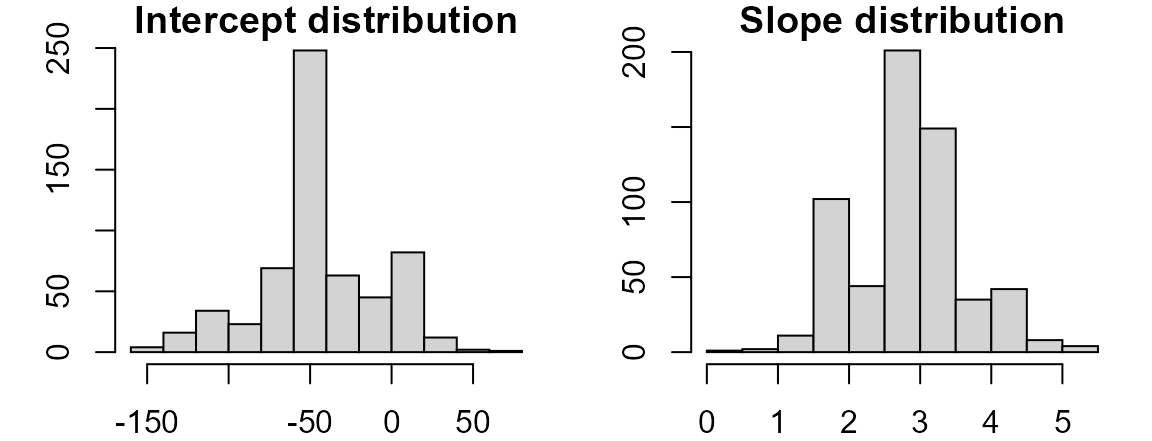
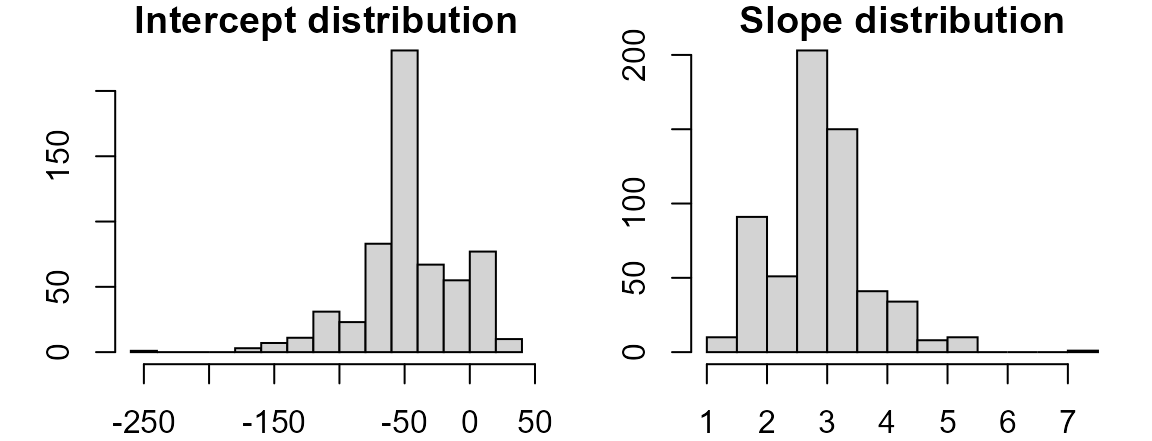
working on docs/ pages

diff --git a/docs/reference/eda_lm.html b/docs/reference/eda_lm.html
@@ -138,10 +138,21 @@
  standard  deviations match axes unit length.</p>
     </div>
 
-    <pre class="usage"><span class='fu'>eda_lm</span><span class='op'>(</span><span class='va'>dat</span>, <span class='va'>x</span>, <span class='va'>y</span>, x.lab <span class='op'>=</span> <span class='cn'>NULL</span>, y.lab <span class='op'>=</span> <span class='cn'>NULL</span>, reg <span class='op'>=</span> <span class='cn'>TRUE</span>,
-  loe <span class='op'>=</span> <span class='cn'>FALSE</span>, lm.col <span class='op'>=</span> <span class='fu'><a href='https://rdrr.io/r/grDevices/rgb.html'>rgb</a></span><span class='op'>(</span><span class='fl'>1</span>, <span class='fl'>0.5</span>, <span class='fl'>0.5</span>, <span class='fl'>0.8</span><span class='op'>)</span>, loe.col <span class='op'>=</span> <span class='fu'><a href='https://rdrr.io/r/grDevices/rgb.html'>rgb</a></span><span class='op'>(</span><span class='fl'>0.73</span>,
-  <span class='fl'>0.73</span>, <span class='fl'>1</span>, <span class='fl'>1</span><span class='op'>)</span>, stats <span class='op'>=</span> <span class='cn'>FALSE</span>, plot.d <span class='op'>=</span> <span class='fu'><a href='https://rdrr.io/r/base/list.html'>list</a></span><span class='op'>(</span>pch <span class='op'>=</span> <span class='fl'>20</span>, col <span class='op'>=</span> <span class='st'>"grey40"</span><span class='op'>)</span>,
-  <span class='va'>...</span>, loess.d <span class='op'>=</span> <span class='cn'>NULL</span><span class='op'>)</span></pre>
+    <pre class="usage"><span class='fu'>eda_lm</span><span class='op'>(</span>
+  <span class='va'>dat</span>,
+  <span class='va'>x</span>,
+  <span class='va'>y</span>,
+  x.lab <span class='op'>=</span> <span class='cn'>NULL</span>,
+  y.lab <span class='op'>=</span> <span class='cn'>NULL</span>,
+  reg <span class='op'>=</span> <span class='cn'>TRUE</span>,
+  loe <span class='op'>=</span> <span class='cn'>FALSE</span>,
+  lm.col <span class='op'>=</span> <span class='fu'><a href='https://rdrr.io/r/grDevices/rgb.html'>rgb</a></span><span class='op'>(</span><span class='fl'>1</span>, <span class='fl'>0.5</span>, <span class='fl'>0.5</span>, <span class='fl'>0.8</span><span class='op'>)</span>,
+  loe.col <span class='op'>=</span> <span class='fu'><a href='https://rdrr.io/r/grDevices/rgb.html'>rgb</a></span><span class='op'>(</span><span class='fl'>0.73</span>, <span class='fl'>0.73</span>, <span class='fl'>1</span>, <span class='fl'>1</span><span class='op'>)</span>,
+  stats <span class='op'>=</span> <span class='cn'>FALSE</span>,
+  plot.d <span class='op'>=</span> <span class='fu'><a href='https://rdrr.io/r/base/list.html'>list</a></span><span class='op'>(</span>pch <span class='op'>=</span> <span class='fl'>20</span>, col <span class='op'>=</span> <span class='st'>"grey40"</span><span class='op'>)</span>,
+  <span class='va'>...</span>,
+  loess.d <span class='op'>=</span> <span class='cn'>NULL</span>
+<span class='op'>)</span></pre>
 
     <h2 class="hasAnchor" id="arguments"><a class="anchor" href="#arguments"></a>Arguments</h2>
     <table class="ref-arguments">

diff --git a/docs/index.html b/docs/index.html
@@ -81,6 +81,8 @@
 
       </header><div class="row">
   <div class="contents col-md-9">
+
+
 <div id="tukeyedar" class="section level1">
 <div class="page-header"><h1 class="hasAnchor">
 <a href="#tukeyedar" class="anchor"></a>tukeyedar</h1></div>
@@ -181,7 +183,7 @@
 <div class="sourceCode" id="cb4"><pre class="downlit sourceCode r">
 <code class="sourceCode R"><span class="kw"><a href="https://rdrr.io/r/base/library.html">library</a></span><span class="op">(</span><span class="va"><a href="https://mgimond.github.io/">tukeyedar</a></span><span class="op">)</span>
 <span class="fu"><a href="reference/eda_3pt.html">eda_3pt</a></span><span class="op">(</span><span class="va">mtcars</span>, <span class="va">disp</span>, <span class="va">mpg</span><span class="op">)</span></code></pre></div>
-<p><img src="README-unnamed-chunk-5-1.png"></p>
+<p><img src="README-unnamed-chunk-5-1.png"><!-- --></p>
 <div class="sourceCode" id="cb5"><pre class="sourceCode R"><code class="sourceCode r"><span id="cb5-1"><a href="#cb5-1" aria-hidden="true" tabindex="-1"></a><span class="co">#&gt; $slope1</span></span>
 <span id="cb5-2"><a href="#cb5-2" aria-hidden="true" tabindex="-1"></a><span class="co">#&gt; [1] -0.1117241</span></span>
 <span id="cb5-3"><a href="#cb5-3" aria-hidden="true" tabindex="-1"></a><span class="co">#&gt; </span></span>
@@ -196,12 +198,13 @@
 <span id="cb5-12"><a href="#cb5-12" aria-hidden="true" tabindex="-1"></a><span class="co">#&gt; </span></span>
 <span id="cb5-13"><a href="#cb5-13" aria-hidden="true" tabindex="-1"></a><span class="co">#&gt; $ymed</span></span>
 <span id="cb5-14"><a href="#cb5-14" aria-hidden="true" tabindex="-1"></a><span class="co">#&gt; [1] 27.30 19.20 14.95</span></span></code></pre></div>
-<p>Note that most functions are <em>pipe</em> friendly. For example the following will work:</p>
+<p>Note that most functions are <em>pipe</em> friendly. For example:</p>
 <div class="sourceCode" id="cb6"><pre class="downlit sourceCode r">
 <code class="sourceCode R"><span class="kw"><a href="https://rdrr.io/r/base/library.html">library</a></span><span class="op">(</span><span class="va"><a href="https://dplyr.tidyverse.org">dplyr</a></span><span class="op">)</span>
 <span class="va">mtcars</span> <span class="op">%&gt;%</span> <span class="fu"><a href="reference/eda_3pt.html">eda_3pt</a></span><span class="op">(</span><span class="va">disp</span>, <span class="va">mpg</span><span class="op">)</span></code></pre></div>
 </div>
 </div>
+
   </div>
 
   <div class="col-md-3 hidden-xs hidden-sm" id="pkgdown-sidebar">
@@ -229,7 +232,13 @@
 </ul>
 </div>
 
-  </div>
+  <div class="dev-status">
+<h2>Dev status</h2>
+<ul class="list-unstyled">
+<li><a href="https://travis-ci.org/mgimond/tukeyedar"><img src="https://travis-ci.org/mgimond/tukeyedar.svg?branch=master" alt="Travis build status"></a></li>
+</ul>
+</div>
+</div>
 </div>
 
 

diff --git a/docs/reference/eda_unipow.html b/docs/reference/eda_unipow.html
@@ -136,10 +136,17 @@
  transformation is used in computing the re-expressed values.</p>
     </div>
 
-    <pre class="usage"><span class='fu'>eda_unipow</span><span class='op'>(</span><span class='va'>x</span>, p <span class='op'>=</span> <span class='fu'><a href='https://rdrr.io/r/base/c.html'>c</a></span><span class='op'>(</span><span class='fl'>2</span>, <span class='fl'>1</span>, <span class='fl'>1</span><span class='op'>/</span><span class='fl'>2</span>, <span class='fl'>0.33</span>, <span class='fl'>0</span>, <span class='op'>-</span><span class='fl'>0.33</span>, <span class='op'>-</span><span class='fl'>1</span><span class='op'>/</span><span class='fl'>2</span>, <span class='op'>-</span><span class='fl'>1</span>, <span class='op'>-</span><span class='fl'>2</span><span class='op'>)</span>,
-  tukey <span class='op'>=</span> <span class='cn'>TRUE</span>, bins <span class='op'>=</span> <span class='fl'>5</span>, cex.main <span class='op'>=</span> <span class='fl'>1.3</span>, col <span class='op'>=</span> <span class='st'>"#DDDDDD"</span>,
-  border <span class='op'>=</span> <span class='st'>"#AAAAAA"</span>, title <span class='op'>=</span> <span class='st'>"Re-expressed data via ladder of powers"</span>,
-  <span class='va'>...</span><span class='op'>)</span></pre>
+    <pre class="usage"><span class='fu'>eda_unipow</span><span class='op'>(</span>
+  <span class='va'>x</span>,
+  p <span class='op'>=</span> <span class='fu'><a href='https://rdrr.io/r/base/c.html'>c</a></span><span class='op'>(</span><span class='fl'>2</span>, <span class='fl'>1</span>, <span class='fl'>1</span><span class='op'>/</span><span class='fl'>2</span>, <span class='fl'>0.33</span>, <span class='fl'>0</span>, <span class='op'>-</span><span class='fl'>0.33</span>, <span class='op'>-</span><span class='fl'>1</span><span class='op'>/</span><span class='fl'>2</span>, <span class='op'>-</span><span class='fl'>1</span>, <span class='op'>-</span><span class='fl'>2</span><span class='op'>)</span>,
+  tukey <span class='op'>=</span> <span class='cn'>TRUE</span>,
+  bins <span class='op'>=</span> <span class='fl'>5</span>,
+  cex.main <span class='op'>=</span> <span class='fl'>1.3</span>,
+  col <span class='op'>=</span> <span class='st'>"#DDDDDD"</span>,
+  border <span class='op'>=</span> <span class='st'>"#AAAAAA"</span>,
+  title <span class='op'>=</span> <span class='st'>"Re-expressed data via ladder of powers"</span>,
+  <span class='va'>...</span>
+<span class='op'>)</span></pre>
 
     <h2 class="hasAnchor" id="arguments"><a class="anchor" href="#arguments"></a>Arguments</h2>
     <table class="ref-arguments">

diff --git a/docs/articles/RLine.html b/docs/articles/RLine.html
@@ -85,7 +85,7 @@
       <h1 data-toc-skip>Resistant Line</h1>
                         <h4 class="author">Manuel Gimond</h4>
             
-            <h4 class="date">2021-10-22</h4>
+            <h4 class="date">2021-10-25</h4>
       
       <small class="dont-index">Source: <a href="https://github.com/mgimond/tukeyedar/blob/master/vignettes/RLine.Rmd"><code>vignettes/RLine.Rmd</code></a></small>
       <div class="hidden name"><code>RLine.Rmd</code></div>
@@ -284,8 +284,8 @@ median(y_{l,m,r} - b * x_{l,m,r})
                      Slope <span class="op">=</span> <span class="fu"><a href="https://rdrr.io/r/stats/quantile.html">quantile</a></span><span class="op">(</span><span class="va">bt</span><span class="op">[</span>,<span class="fl">2</span><span class="op">]</span>, p<span class="op">=</span><span class="fu"><a href="https://rdrr.io/r/base/c.html">c</a></span><span class="op">(</span><span class="fl">0.05</span>,<span class="fl">0.95</span><span class="op">)</span> <span class="op">)</span><span class="op">)</span><span class="op">)</span>
 <span class="va">conf</span>
 <span class="co">#&gt;                    5%      95%</span>
-<span class="co">#&gt;  Intercept -72.493687 9.883029</span>
-<span class="co">#&gt;  Slope       1.729284 3.486504</span></code></pre></div>
+<span class="co">#&gt;  Intercept -78.815486 8.192291</span>
+<span class="co">#&gt;  Slope       1.712624 3.562789</span></code></pre></div>
 </div>
 <div id="resampling-the-x-y-paired-values" class="section level3">
 <h3 class="hasAnchor">
@@ -311,7 +311,7 @@ median(y_{l,m,r} - b * x_{l,m,r})
                      Slope <span class="op">=</span> <span class="fu"><a href="https://rdrr.io/r/stats/quantile.html">quantile</a></span><span class="op">(</span><span class="va">bt</span><span class="op">[</span>,<span class="fl">2</span><span class="op">]</span>, p<span class="op">=</span><span class="fu"><a href="https://rdrr.io/r/base/c.html">c</a></span><span class="op">(</span><span class="fl">0.05</span>,<span class="fl">0.95</span><span class="op">)</span> <span class="op">)</span><span class="op">)</span><span class="op">)</span>
 <span class="va">conf</span>
 <span class="co">#&gt;                     5%       95%</span>
-<span class="co">#&gt;  Intercept -116.523077 10.338609</span>
+<span class="co">#&gt;  Intercept -116.523077 12.429292</span>
 <span class="co">#&gt;  Slope        1.643678  4.338462</span></code></pre></div>
 </div>
 </div>

diff --git a/docs/reference/eda_3pt.html b/docs/reference/eda_3pt.html
@@ -144,8 +144,18 @@
  for both X and Y values on the ladder of powers.</p>
     </div>
 
-    <pre class="usage"><span class='fu'>eda_3pt</span><span class='op'>(</span><span class='va'>dat</span>, <span class='va'>x</span>, <span class='va'>y</span>, x.lab <span class='op'>=</span> <span class='cn'>NULL</span>, y.lab <span class='op'>=</span> <span class='cn'>NULL</span>, adj <span class='op'>=</span> <span class='op'>-</span><span class='fl'>0.12</span>,
-  dir <span class='op'>=</span> <span class='cn'>TRUE</span>, pch <span class='op'>=</span> <span class='fl'>20</span>, col <span class='op'>=</span> <span class='st'>"grey40"</span>, <span class='va'>...</span><span class='op'>)</span></pre>
+    <pre class="usage"><span class='fu'>eda_3pt</span><span class='op'>(</span>
+  <span class='va'>dat</span>,
+  <span class='va'>x</span>,
+  <span class='va'>y</span>,
+  x.lab <span class='op'>=</span> <span class='cn'>NULL</span>,
+  y.lab <span class='op'>=</span> <span class='cn'>NULL</span>,
+  adj <span class='op'>=</span> <span class='op'>-</span><span class='fl'>0.12</span>,
+  dir <span class='op'>=</span> <span class='cn'>TRUE</span>,
+  pch <span class='op'>=</span> <span class='fl'>20</span>,
+  col <span class='op'>=</span> <span class='st'>"grey40"</span>,
+  <span class='va'>...</span>
+<span class='op'>)</span></pre>
 
     <h2 class="hasAnchor" id="arguments"><a class="anchor" href="#arguments"></a>Arguments</h2>
     <table class="ref-arguments">

diff --git a/docs/reference/eda_boxls.html b/docs/reference/eda_boxls.html
@@ -134,8 +134,16 @@ option to equalize levels and/or spreads." />
 option to equalize levels and/or spreads.</p>
     </div>
 
-    <pre class="usage"><span class='fu'>eda_boxls</span><span class='op'>(</span><span class='va'>dat</span>, <span class='va'>x</span>, <span class='va'>fac</span>, outlier <span class='op'>=</span> <span class='cn'>TRUE</span>, <span class='va'>out.txt</span>, type <span class='op'>=</span> <span class='st'>"l"</span>,
-  horiz <span class='op'>=</span> <span class='cn'>FALSE</span>, outliers <span class='op'>=</span> <span class='cn'>TRUE</span><span class='op'>)</span></pre>
+    <pre class="usage"><span class='fu'>eda_boxls</span><span class='op'>(</span>
+  <span class='va'>dat</span>,
+  <span class='va'>x</span>,
+  <span class='va'>fac</span>,
+  outlier <span class='op'>=</span> <span class='cn'>TRUE</span>,
+  <span class='va'>out.txt</span>,
+  type <span class='op'>=</span> <span class='st'>"l"</span>,
+  horiz <span class='op'>=</span> <span class='cn'>FALSE</span>,
+  outliers <span class='op'>=</span> <span class='cn'>TRUE</span>
+<span class='op'>)</span></pre>
 
     <h2 class="hasAnchor" id="arguments"><a class="anchor" href="#arguments"></a>Arguments</h2>
     <table class="ref-arguments">

diff --git a/docs/articles/Introduction.html b/docs/articles/Introduction.html
@@ -85,7 +85,7 @@
       <h1 data-toc-skip>Introduction to EDA functions</h1>
                         <h4 class="author">Manuel Gimond</h4>
             
-            <h4 class="date">2021-10-22</h4>
+            <h4 class="date">2021-10-25</h4>
       
       <small class="dont-index">Source: <a href="https://github.com/mgimond/tukeyedar/blob/master/vignettes/Introduction.Rmd"><code>vignettes/Introduction.Rmd</code></a></small>
       <div class="hidden name"><code>Introduction.Rmd</code></div>

diff --git a/docs/reference/age_height.html b/docs/reference/age_height.html
@@ -149,6 +149,7 @@ height and weight from urban private and rural public schools.</p>
   ...
 
 </dl>
+
     <h2 class="hasAnchor" id="source"><a class="anchor" href="#source"></a>Source</h2>
 
     <p>Understanding robust and exploratory data analysis, by D.C. Hoaglin,

diff --git a/docs/reference/neoplasms.html b/docs/reference/neoplasms.html
@@ -145,6 +145,7 @@ and breast cancer mortality rate.</p>
   ...
 
 </dl>
+
     <h2 class="hasAnchor" id="source"><a class="anchor" href="#source"></a>Source</h2>
 
     <p>Applications, Basics and Computing of Exploratory Data Analysis,

diff --git a/docs/reference/nine_point.html b/docs/reference/nine_point.html
@@ -147,6 +147,7 @@ book.</p>
   ...
 
 </dl>
+
     <h2 class="hasAnchor" id="source"><a class="anchor" href="#source"></a>Source</h2>
 
     <p>Robust regression using repeated medians, Andrew F. Siegel, Biometrika,

diff --git a/README.md b/README.md
@@ -1,70 +1,96 @@
-tukeyedar
-=========
+<!-- badges: start --> [![Travis build
+status](https://travis-ci.org/mgimond/tukeyedar.svg?branch=master)](https://travis-ci.org/mgimond/tukeyedar)
+<!-- badges: end -->
 
-The `tukeyedar` package houses functions used in Exploratory Data Analysis (EDA). Most functions are inspired by work published by John Tukey, David Hoaglin and Frederick Mosteller (see references at the bottom of this document). Note that this package is in beta mode, so use at your own discretion. Many of the plots generated from these functions are not necessarily geared for publication but are designed to focus the viewer's attention on the patterns generated by the plots (hence the reason for light colored axes and missing axes labels for some of the plots ).
+# tukeyedar
+
+The `tukeyedar` package houses functions used in Exploratory Data
+Analysis (EDA). Most functions are inspired by work published by John
+Tukey, David Hoaglin and Frederick Mosteller (see references at the
+bottom of this document). Note that this package is in beta mode, so use
+at your own discretion. Many of the plots generated from these functions
+are not necessarily geared for publication but are designed to focus the
+viewer’s attention on the patterns generated by the plots (hence the
+reason for light colored axes and missing axes labels for some of the
+plots ).
 
 The functions available in this package include:
 
-|        Function| Description                                                                           |
+|       Function | Description                                                                           |
 |---------------:|:--------------------------------------------------------------------------------------|
-|     `eda_boxls`| Parallel boxplots with level and spread equalization                                  |
-|     `eda_ltrim`| Trim lower values of a vector                                                         |
-|     `eda_rtrim`| Trim upper values of a vector                                                         |
-|  `eda_ltrim_df`| Trim lower records of a dataframe                                                     |
-|  `eda_rtrim_df`| Trim upper records of a dataframe                                                     |
-|        `eda_re`| Re-express using Tukey powers or Box-Cox transformation                               |
-|      `eda_lsum`| Letter value summaries                                                                |
-|        `eda_sl`| Spread-level funcion                                                                  |
-|        `eda_lm`| Generate scatter plot along with regression line and LOESS curve                      |
-|       `eda_3pt`| Generate 3-point summary of data and plot half-slopes                                 |
-|    `eda_unipow`| Generate matrix of re-expressed univariate values based on ladder of powers           |
-|     `eda_bipow`| Generate matrix of re-expressed bivariate values and plot 3-point summary half-slopes |
-|     `eda_rline`| Fit a three-group resistant line to bivariate data                                    |
+|    `eda_boxls` | Parallel boxplots with level and spread equalization                                  |
+|    `eda_ltrim` | Trim lower values of a vector                                                         |
+|    `eda_rtrim` | Trim upper values of a vector                                                         |
+| `eda_ltrim_df` | Trim lower records of a dataframe                                                     |
+| `eda_rtrim_df` | Trim upper records of a dataframe                                                     |
+|       `eda_re` | Re-express using Tukey powers or Box-Cox transformation                               |
+|     `eda_lsum` | Letter value summaries                                                                |
+|       `eda_sl` | Spread-level funcion                                                                  |
+|       `eda_lm` | Generate scatter plot along with regression line and LOESS curve                      |
+|      `eda_3pt` | Generate 3-point summary of data and plot half-slopes                                 |
+|   `eda_unipow` | Generate matrix of re-expressed univariate values based on ladder of powers           |
+|    `eda_bipow` | Generate matrix of re-expressed bivariate values and plot 3-point summary half-slopes |
+|    `eda_rline` | Fit a three-group resistant line to bivariate data                                    |
 
-Installation
-------------
+## Installation
 
-This package can be installed from github (the installation process makes use of the `devtools` package).
+This package can be installed from github (the installation process
+makes use of the `devtools` package).
 
 ``` r
 devtools::install_github("mgimond/tukeyedar")
 ```
 
-Note that the vignettes will not be automatically generated with the above command; note too that the vignettes are available on this website (see next section). If you want a local version of the vignettes, add the `build_vignettes = TRUE` parameter.
+Note that the vignettes will not be automatically generated with the
+above command; note too that the vignettes are available on this website
+(see next section). If you want a local version of the vignettes, add
+the `build_vignettes = TRUE` parameter.
 
 ``` r
 devtools::install_github("mgimond/tukeyedar", build_vignettes = TRUE)
 ```
 
-The vignette will require that `dplyr` be installed since the `eda_sl` function relies on it. If `dplyr` is not alreay installed, the aforementioned syntax will automatically install it for you.
+The vignette will require that `dplyr` be installed since the `eda_sl`
+function relies on it. If `dplyr` is not alreay installed, the
+aforementioned syntax will automatically install it for you.
 
-If for some reason the vignettes are not created, you might want to reinstall the package with the `force=TRUE` parameter.
+If for some reason the vignettes are not created, you might want to
+reinstall the package with the `force=TRUE` parameter.
 
 ``` r
 devtools::install_github("mgimond/tukeyedar", build_vignettes = TRUE, force=TRUE)
 ```
 
-Read the vignettes!
--------------------
+## Read the vignettes!
 
-It's strongly recommended that you read the vignettes. These can be accessed from this website:
+It’s strongly recommended that you read the vignettes. These can be
+accessed from this website:
 
--   [An introduction to the functions](https://mgimond.github.io/tukeyedar/articles/Introduction.html)
--   [A detailed rundown of the resistant line function](https://mgimond.github.io/tukeyedar/articles/RLine.html)
+-   [An introduction to the
+    functions](https://mgimond.github.io/tukeyedar/articles/Introduction.html)
+-   [A detailed rundown of the resistant line
+    function](https://mgimond.github.io/tukeyedar/articles/RLine.html)
 
-If you chose to have the vignettes locally created when you installed the package then you can view them locally via `vignette("Introduction", package = "tukeyedar")` and `vignette("RLine", package = "tukeyedar")`. If you use a dark themed IDE, the vignettes may not render very well so you might opt to view them in a web browser via the functions `RShowDoc("Introduction", package = "tukeyedar")` and `RShowDoc("RLine", package = "tukeyedar")`.
+If you chose to have the vignettes locally created when you installed
+the package then you can view them locally via
+`vignette("Introduction", package = "tukeyedar")` and
+`vignette("RLine", package = "tukeyedar")`. If you use a dark themed
+IDE, the vignettes may not render very well so you might opt to view
+them in a web browser via the functions
+`RShowDoc("Introduction", package = "tukeyedar")` and
+`RShowDoc("RLine", package = "tukeyedar")`.
 
-Using the functions
--------------------
+## Using the functions
 
-All functions start with `eda_`. For example, to generate a three point summary plot of the `mpg` vs. `disp` from the `mtcars` dataset, type:
+All functions start with `eda_`. For example, to generate a three point
+summary plot of the `mpg` vs. `disp` from the `mtcars` dataset, type:
 
 ``` r
 library(tukeyedar)
 eda_3pt(mtcars, disp, mpg)
 ```
 
-![](README-unnamed-chunk-5-1.png)
+![](README-unnamed-chunk-5-1.png)<!-- -->
 
     #> $slope1
     #> [1] -0.1117241
@@ -81,7 +107,7 @@ eda_3pt(mtcars, disp, mpg)
     #> $ymed
     #> [1] 27.30 19.20 14.95
 
-Note that most functions are *pipe* friendly. For example the following will work:
+Note that most functions are *pipe* friendly. For example:
 
 ``` r
 library(dplyr)
